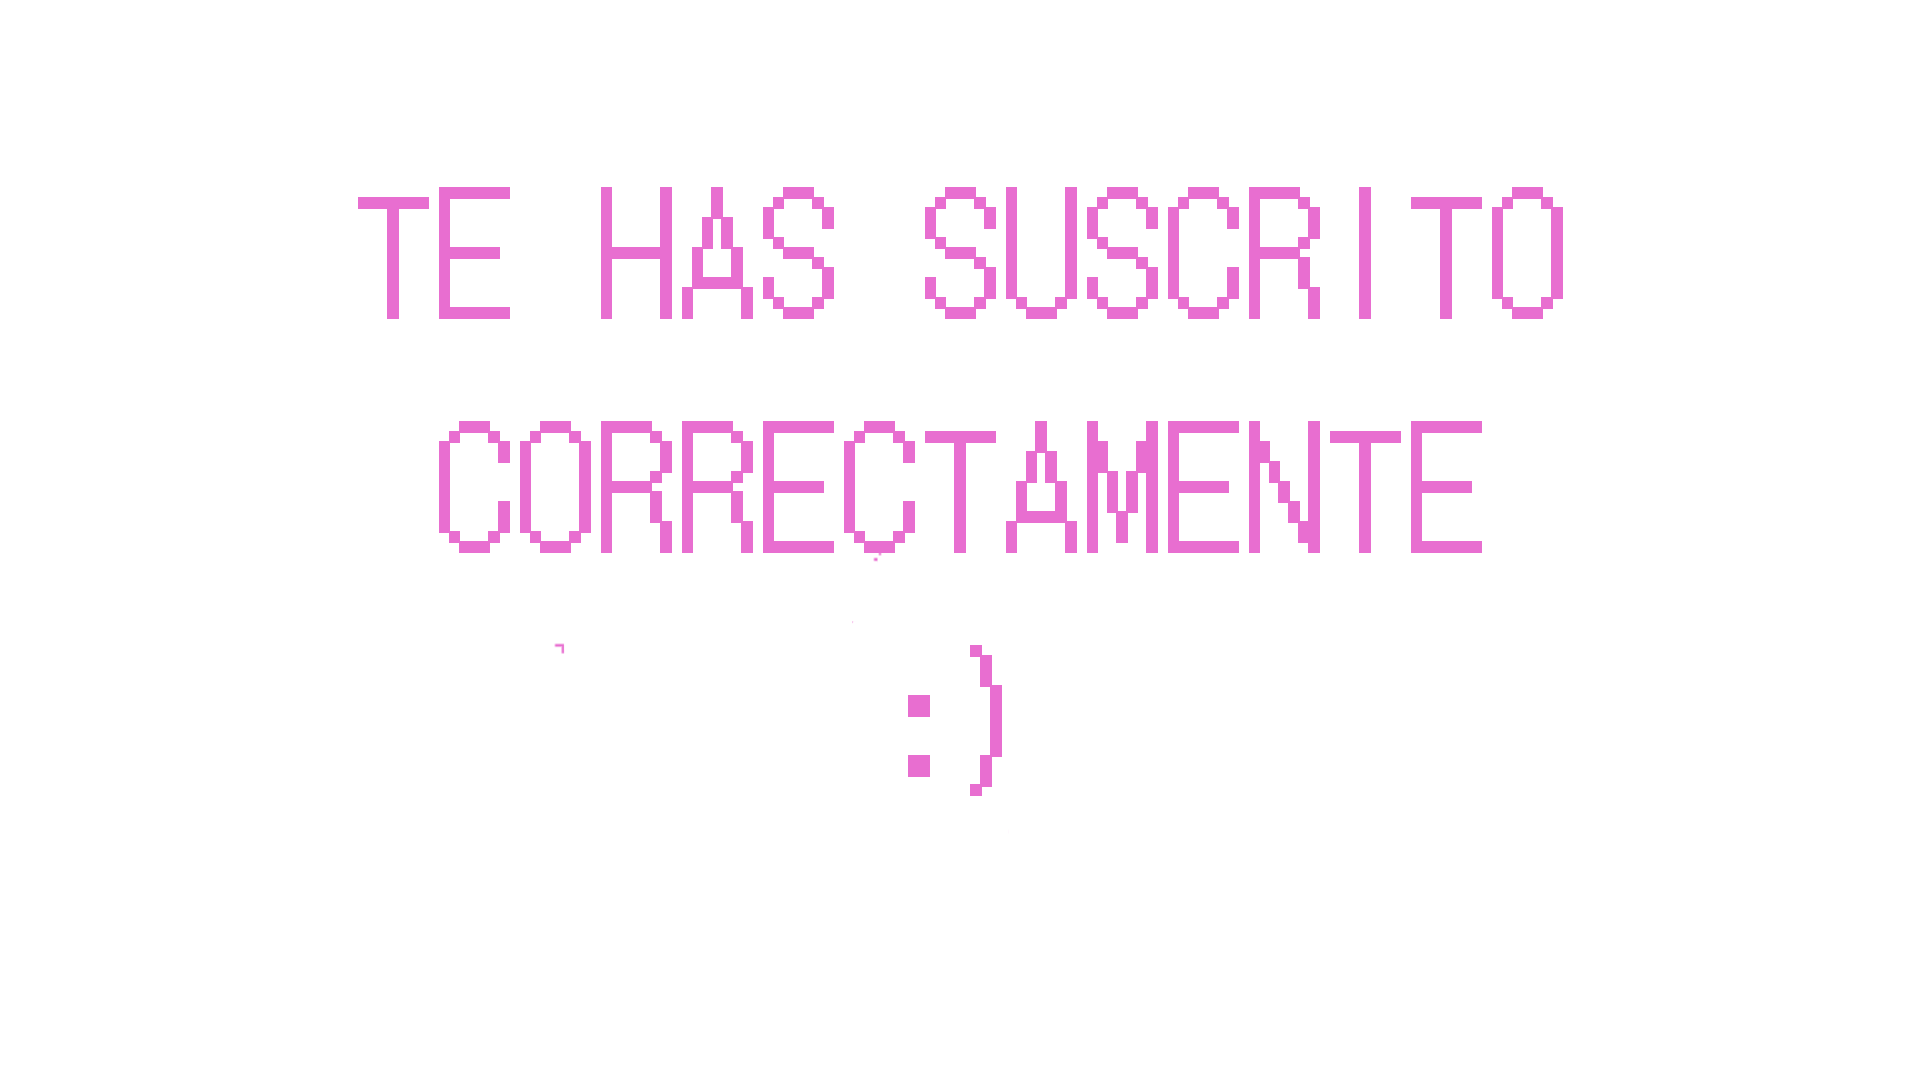
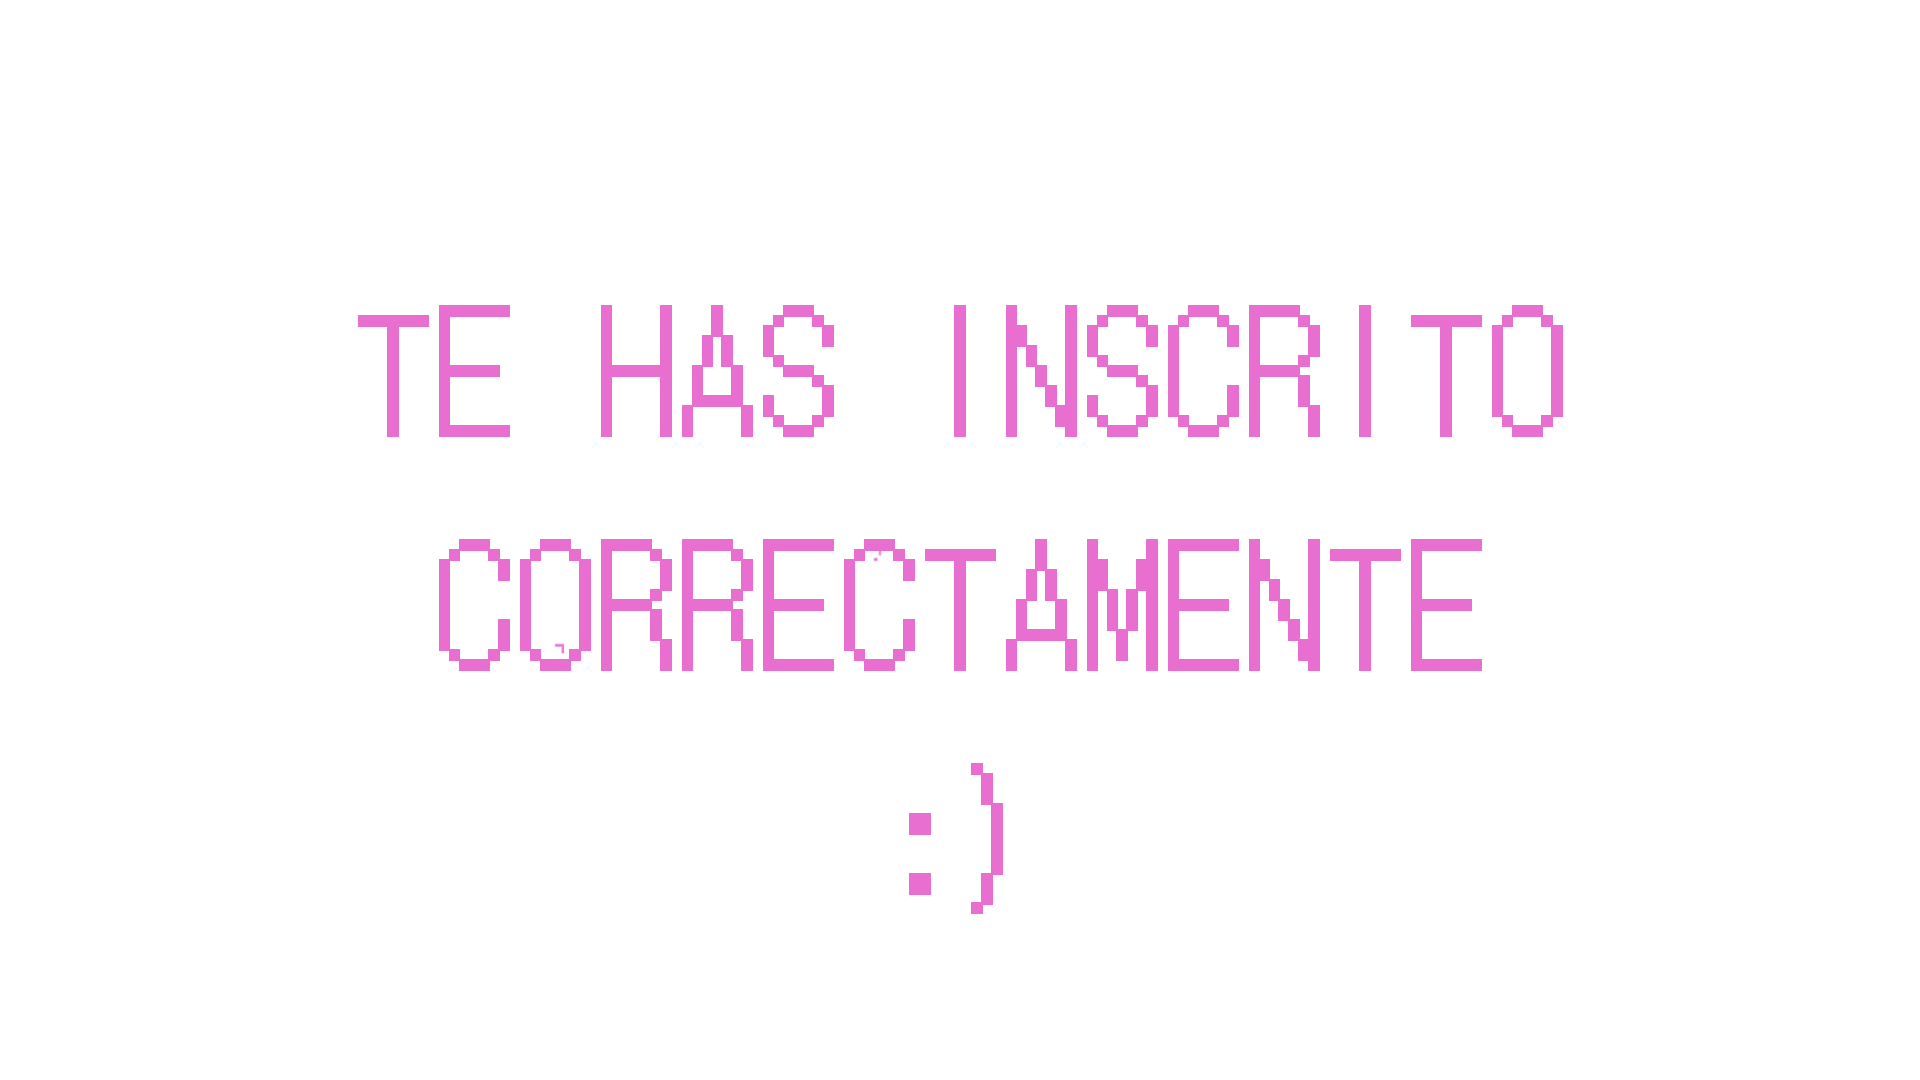
New already subscribed page
A new page has been made that appears when you try to subscribed to an event that you are already subscribed and the image that appears when you subscribed for the frist time to an event has been changed

Changed region(s): [[0.1875, 0.1528, 0.8125, 0.8556]]

diff --git a/Backend/src/main/resources/templates/alreadySubscribed.html b/Backend/src/main/resources/templates/alreadySubscribed.html
@@ -1,0 +1,17 @@
+{{> header}}
+<div class="hero-wrap ftco-degree-bg"  data-stellar-background-ratio="0.5">
+    <div class="overlay"></div>
+    <div class="container">
+        <div class="row no-gutters slider-text justify-content-center align-items-center">
+            <div class="col-lg-8 col-md-6 ftco-animate d-flex align-items-end text-center containercenter">
+                <div class="text text-center containercenter">
+                    <img src="/images/alreadysubscribed.png" style="width: 800px;padding-right: 0px;padding-left: 0px" class="mb-4"/>
+                </div>
+                <div class="form-group" >
+                    <input type="submit" value="Volver a eventos" class="btn btn-primary py-3 px-4 float-right botonDerecha" onclick="window.location = '/events'" >
+                </div>
+            </div>
+        </div>
+    </div>
+</div>
+{{> footer}}

diff --git a/Backend/src/main/java/daw/urjc/ayuntamiento/controller/EventController.java b/Backend/src/main/java/daw/urjc/ayuntamiento/controller/EventController.java
@@ -70,7 +70,7 @@ public class EventController {
         Principal principal = request.getUserPrincipal();
         Optional<User> user = userService.findByName(principal.getName());
         if (user.get().getEventSuscribe().contains(id)){
-            return "index";
+            return "alreadySubscribed";
         }
         user.get().getEventSuscribe().add(id);
         Optional<Event> event = service.findId(id);
